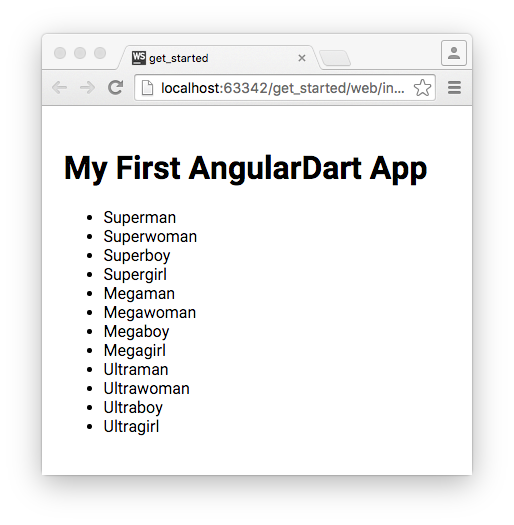
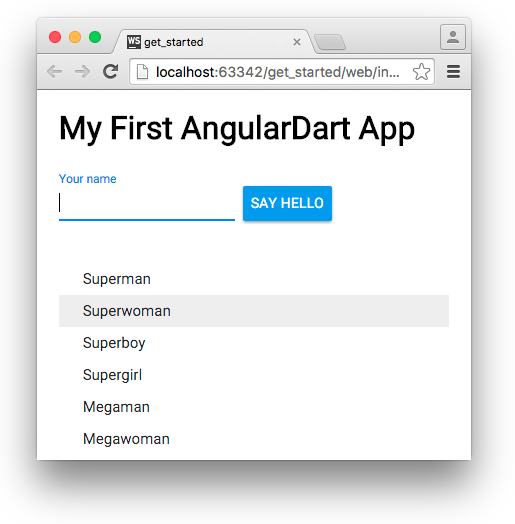
[ng-waiting-for-stagehand] Get Started: replace simple <ul> list by ACX list (#406)
* [ng] Get Started: replace simple <ul> list by ACX list

Fixes #401

* post-review edits

Changed region(s): [[0.0311, 0.0305, 0.9339, 0.9466]]

diff --git a/src/_guides/get-started.md b/src/_guides/get-started.md
@@ -149,21 +149,20 @@ class AppComponent {
 
 <li markdown="1">
   Edit the corresponding template, `lib/app_component.html`,
-  changing the code to the following:
+  copying the following code to the bottom of the file:
 
 {% prettify html %}{% raw %}
-<h1>My First AngularDart App</h1>
-
-[[highlight]]<ul>[[/highlight]]
-  [[highlight]]<li *ngFor="let hero of heroes">[[/highlight]]
-    [[highlight]]{{ hero }}[[/highlight]]
-  [[highlight]]</li>[[/highlight]]
-[[highlight]]</ul>[[/highlight]]
+<material-list>
+    <material-list-item *ngFor="let hero of heroes"
+                        (click)="myDialog.open(hero)">
+        {{ hero }}
+    </material-list-item>
+</material-list>
 {% endraw %}{% endprettify %}
 
   This code uses the Angular's `*ngFor` syntax to loop through
   the component's `heroes` list.
-  At runtime, Angular creates an `<li>` element for each item in `heroes`,
+  At runtime, Angular creates a `<material-list-item>` element for each item in `heroes`,
   replacing `{% raw %}{{ hero }}{% endraw %}`
   with the current item's value (a hero's name).
 </li>
